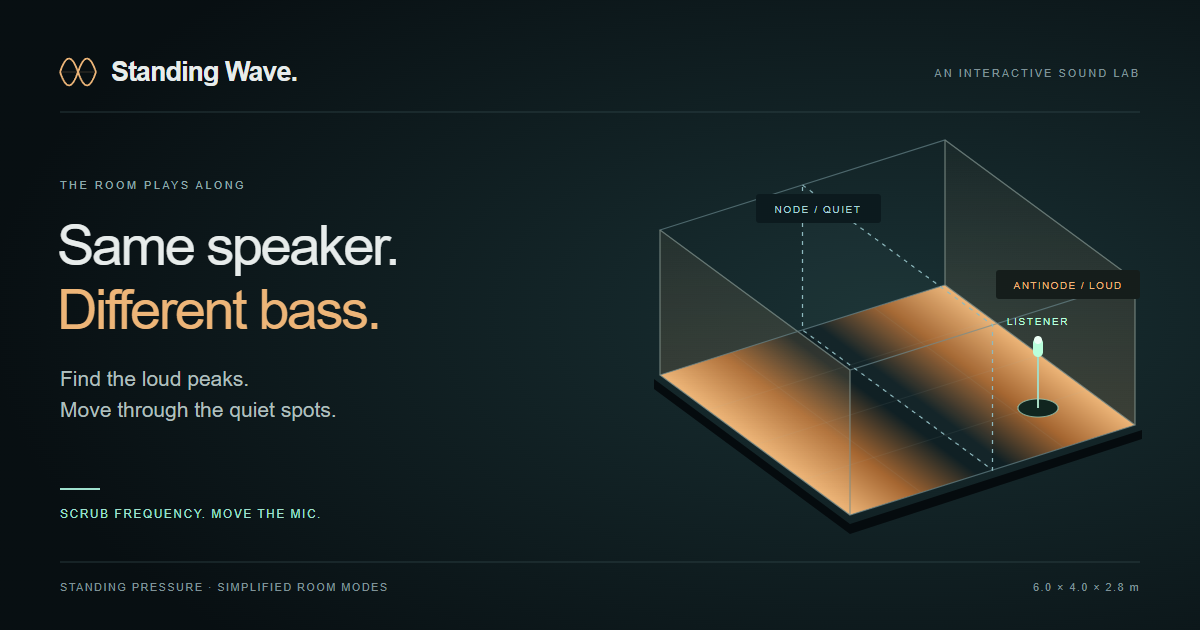
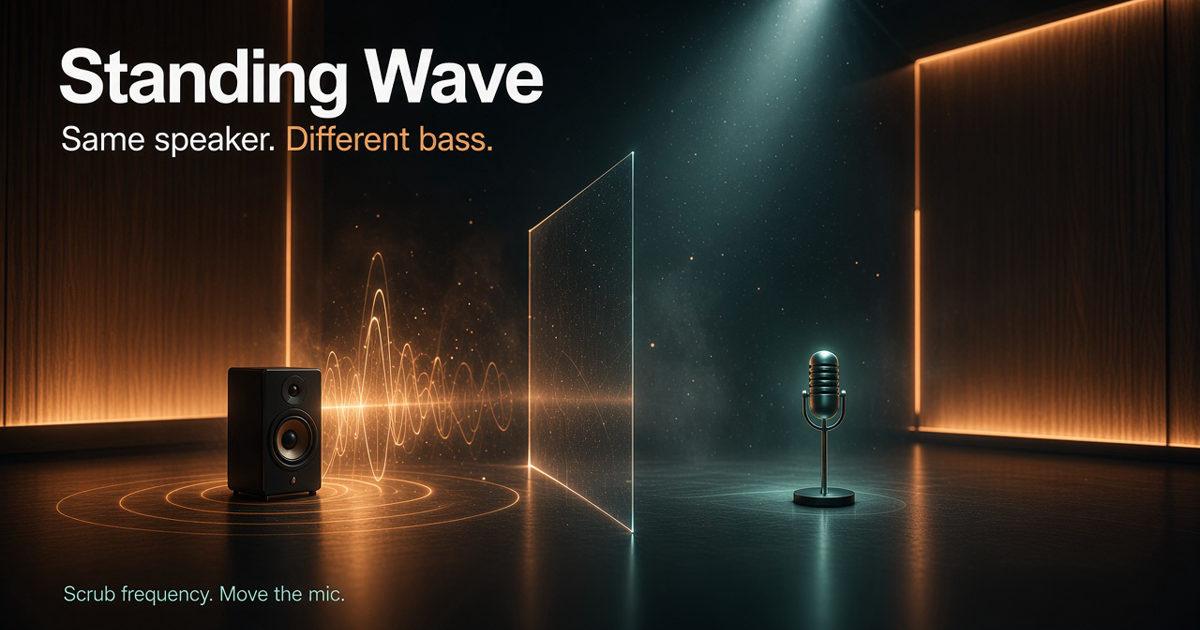
Improve social card depth and teaching labels
Make pressure regions, the listener, and the action cue readable at thumbnail size. Update image descriptions to match.

diff --git a/index.html b/index.html
@@ -14,11 +14,11 @@
     <meta property="og:image:type" content="image/png" />
     <meta property="og:image:width" content="1200" />
     <meta property="og:image:height" content="630" />
-    <meta property="og:image:alt" content="Standing Wave: a rectangular room with bright pressure peaks at opposite ends and a dark, quiet band in the middle." />
+    <meta property="og:image:alt" content="Standing Wave — Same speaker. Different bass. A speaker and microphone in a dark room with amber-lit ends and a cool central quiet plane. Scrub frequency. Move the mic." />
     <meta name="twitter:card" content="summary_large_image" />
     <meta name="twitter:title" content="Standing Wave — Same speaker, different bass" />
     <meta name="twitter:description" content="Explore standing waves and simplified room modes in 3D. Scrub frequency and move a listener through bass hotspots and dead spots." />
-    <meta name="twitter:image:alt" content="Standing Wave: a rectangular room with bright pressure peaks at opposite ends and a dark, quiet band in the middle." />
+    <meta name="twitter:image:alt" content="Standing Wave — Same speaker. Different bass. A speaker and microphone in a dark room with amber-lit ends and a cool central quiet plane. Scrub frequency. Move the mic." />
     <link rel="icon" type="image/svg+xml" href="%BASE_URL%favicon.svg" />
     <link rel="stylesheet" href="/src/style.css" />
   </head>
